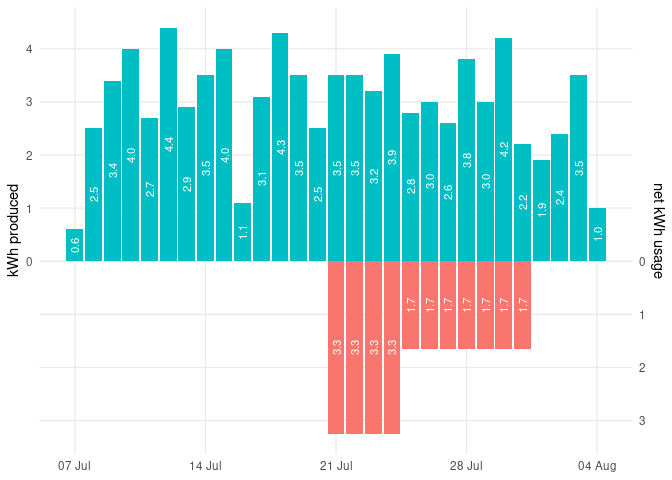
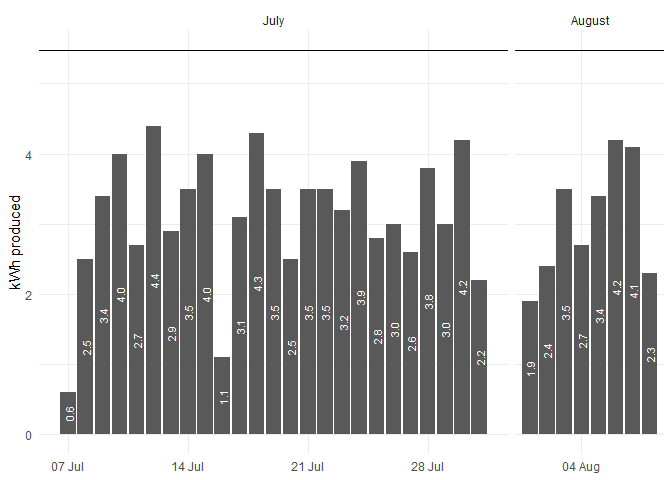
reworked evaluation
*  new plot for electricity meter
*  reworked plot of produced electricity

diff --git a/README.md b/README.md
@@ -7,7 +7,7 @@ electricity usage, measured by electricity meter.
 <div>
 
 by <a href="mailto:firstname.lastname@outlook.com">Konstantin</a> on
-2025-08-04 12:04:05.435782
+2025-08-10 22:23:14.354334
 
 </div>
 
@@ -17,10 +17,15 @@ Import electricity net consumption from file
 
 data/electricity_meter.csv.
 
-Import electricity production from files
+Import electricity production on a daily level from files
 
-- data/202507_power-station.xlsx
-- data/202508_power-station.xlsx
+- data/ps_daily/2025-07-08_2025-07-31.xlsx
+- data/ps_daily/2025-08-01_2025-08-08.xlsx
+
+Import electricity production on a detailed level from files
+
+- data/ps_detail/2025-07-02_2025-07-31.xlsx
+- data/ps_detail/2025-08-01_2025-08-08.xlsx
 
 **Process** data
 
@@ -29,4 +34,10 @@ Import electricity production from files
 
 ## Evaluation
 
-![](img//viz-1.png)<!-- -->
+### Electricity meter
+
+![](img/unnamed-chunk-2-1.png)<!-- -->
+
+### Daily electricity production
+
+![](img/viz-1.png)<!-- -->
